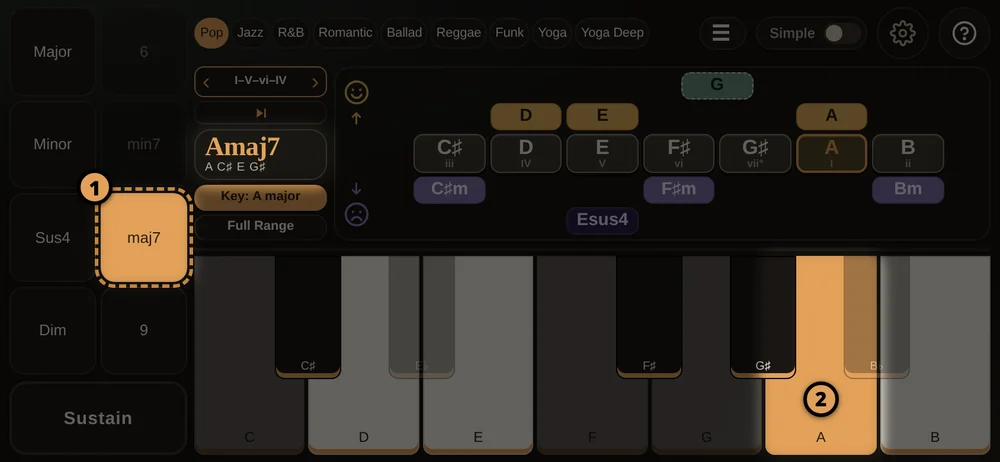
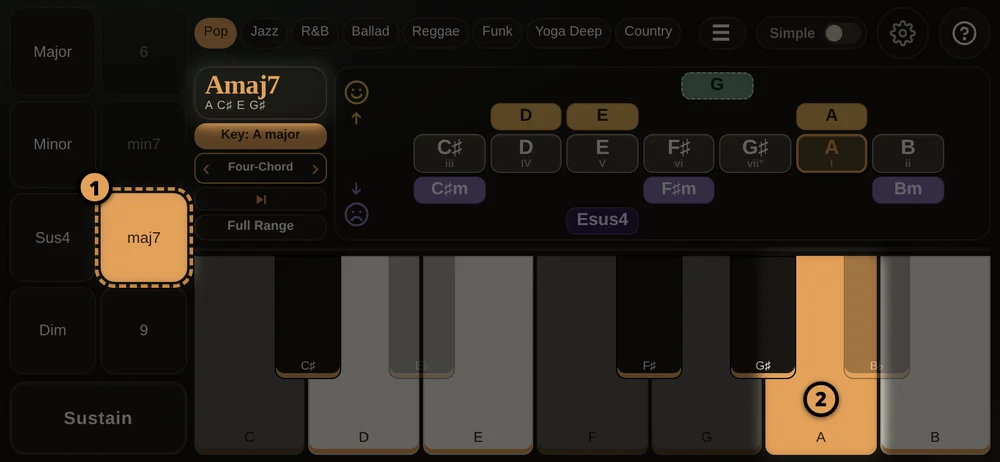
v62: Noff's v61 How to pictures (step 1 marks the song picker as 3), step 1 caption and alt; iPad and desktop full mode use the phone column (Now, Key, ‹ name ›, Next, Full Range; full name with numerals, wide rule at 150 px so iPad portrait gets it too); progression-number badges stay inside the st

Changed region(s): [[0.186, 0.1515, 0.341, 0.4545], [0.186, 0.0303, 0.682, 0.1212]]

diff --git a/index.html b/index.html
@@ -1478,6 +1478,18 @@ html.lay-phone-land:not(.simple) .now-col > #prog, html.lay-phone-port:not(.simp
 html.lay-phone-land:not(.simple) #allKeys, html.lay-phone-port:not(.simple) #allKeys { order: 4; }
 html.lay-phone-land:not(.simple) .key-bar button, html.lay-phone-port:not(.simple) .key-bar button { flex: 0 0 auto; }
 html.lay-phone-land:not(.simple) .now-col { gap: 3px; }
+/* v62: iPad / desktop full mode: the same column. Key and Full Range stack full width; the name
+   (with numerals under it) and a full-width Next sit between them. */
+html.lay-pad-land:not(.simple) .key-bar, html.lay-pad-port:not(.simple) .key-bar { display: contents; }
+html.lay-pad-land:not(.simple) .now-col > .now-card, html.lay-pad-port:not(.simple) .now-col > .now-card { order: 1; }
+html.lay-pad-land:not(.simple) #keyChip, html.lay-pad-port:not(.simple) #keyChip { order: 2; }
+html.lay-pad-land:not(.simple) .now-col > #prog, html.lay-pad-port:not(.simple) .now-col > #prog { order: 3; }
+html.lay-pad-land:not(.simple) #allKeys, html.lay-pad-port:not(.simple) #allKeys { order: 4; }
+html.lay-pad-land:not(.simple) .key-bar button, html.lay-pad-port:not(.simple) .key-bar button { flex: 0 0 auto; height: 40px; min-height: 40px; }
+html.lay-pad-land:not(.simple) .now-col > .prog, html.lay-pad-port:not(.simple) .now-col > .prog { flex-direction: column; gap: 6px; flex: 0 0 auto; width: 100%; max-width: none; margin: 0; --pg-h: 42px; }
+html.lay-pad-land:not(.simple) .now-col > .prog .pg-sel, html.lay-pad-port:not(.simple) .now-col > .prog .pg-sel { width: 100%; flex: 0 0 auto; }
+html.lay-pad-land:not(.simple) .now-col > .prog .pg-btns, html.lay-pad-port:not(.simple) .now-col > .prog .pg-btns { width: 100%; }
+html.lay-pad-land:not(.simple) .now-col > .prog .pg-btn, html.lay-pad-port:not(.simple) .now-col > .prog .pg-btn { flex: 1 1 0; width: auto; height: 34px; }
 /* v61 portrait: the row grows (the keyboard gives up the height) so Now stays at its v59 91 px. */
 html.lay-phone-port:not(.simple) .now-col { gap: 4px; }
 html.lay-phone-port:not(.simple) .now-col > .now-card { flex: 1 0 auto; min-height: 91px; }
@@ -1552,27 +1564,27 @@ html:not(.simple) .ss.tight .ss-chip.sq { padding-left: 0; padding-right: 0; }
     <div class="ht-box">
       <div class="ht-bar"><button type="button" class="ht-x" aria-label="Close">&#10005;</button></div>
       <section class="ht-intro">
-      <img src="images/howto-why.webp?v=61" alt="Touch Chord in Simple mode: Now, key, Sustain and the chord grid" width="1000" height="462" loading="lazy" decoding="async">
+      <img src="images/howto-why.webp?v=62" alt="Touch Chord in Simple mode: Now, key, Sustain and the chord grid" width="1000" height="462" loading="lazy" decoding="async">
       <p class="ht-why">Touch Chord turns one finger into a full chord. No music reading needed.</p>
       <p class="ht-uses">Learn chords &middot; Sing along &middot; Start a song.</p></section>
       <ol class="ht-steps">
       <li><section><h3>1. Play chord suggestion</h3>
-      <img src="images/howto-simple-1-play-suggestion.webp?v=61" alt="Key note and Major/Minor, and a chord chip" width="1000" height="462" loading="lazy" decoding="async">
-      <p class="cap">Swipe the note (1) to pick the key, and tap for <b>Major</b> or <b>Minor</b>. Then tap a chord (2) to play it. &#8249; &#8250; picks a song, and <b>Next</b> plays it one chord at a time.</p></section></li>
+      <img src="images/howto-simple-1-play-suggestion.webp?v=62" alt="Key note and Major/Minor, a chord chip, and the song picker" width="1000" height="462" loading="lazy" decoding="async">
+      <p class="cap">Swipe the note (1) to pick the key, and tap for <b>Major</b> or <b>Minor</b>. Then tap a chord (2) to play it. &#8249; &#8250; (3) picks a song, and <b>Next</b> plays it one chord at a time.</p></section></li>
       <li><section><h3>2. Sustain</h3>
-      <img src="images/howto-simple-4-sustain.webp?v=61" alt="Sustain lit while the chord rings" width="1000" height="462" loading="lazy" decoding="async">
+      <img src="images/howto-simple-4-sustain.webp?v=62" alt="Sustain lit while the chord rings" width="1000" height="462" loading="lazy" decoding="async">
       <p class="cap">Play (1), hold <b>Sustain</b> (2): notes ring and fade. Let go to stop.</p></section></li>
       <li><section><h3>3. Style</h3>
-      <img src="images/howto-simple-5-style.webp?v=61" alt="Style picker" width="1000" height="462" loading="lazy" decoding="async">
+      <img src="images/howto-simple-5-style.webp?v=62" alt="Style picker" width="1000" height="462" loading="lazy" decoding="async">
       <p class="cap">Tap a style (1). It changes the sound and the chords.</p></section></li>
       <li><section><h3>4. Make a chord <span class="ht-pill">Full mode</span></h3>
-      <img src="images/howto-full-2-make-chord.webp?v=61" alt="Hold maj7, tap A, Now reads Amaj7" width="1000" height="462" loading="lazy" decoding="async">
+      <img src="images/howto-full-2-make-chord.webp?v=62" alt="Hold maj7, tap A, Now reads Amaj7" width="1000" height="462" loading="lazy" decoding="async">
       <p class="cap">Hold <b>maj7</b> (1), tap <b>A</b> (2) = <b>Amaj7</b>.</p></section></li>
       <li><section><h3>5. Keyboard <span class="ht-pill">Full mode</span></h3>
-      <img src="images/howto-full-3-keyboard.webp?v=61" alt="Piano keyboard: each key plays a chord" width="1000" height="462" loading="lazy" decoding="async">
+      <img src="images/howto-full-3-keyboard.webp?v=62" alt="Piano keyboard: each key plays a chord" width="1000" height="462" loading="lazy" decoding="async">
       <p class="cap">Tap a key (1) to play its chord.</p></section></li>
       <li><section><h3>6. Full Range <span class="ht-pill">Full mode</span></h3>
-      <img src="images/howto-full-4-fullrange.webp?v=61" alt="Before: gray keys. After Full Range: all keys on" width="1200" height="300" loading="lazy" decoding="async">
+      <img src="images/howto-full-4-fullrange.webp?v=62" alt="Before: gray keys. After Full Range: all keys on" width="1200" height="300" loading="lazy" decoding="async">
       <p class="cap">Gray keys are outside your key. Tap <b>Full Range</b> (1) to play them all.</p></section></li>
       </ol>
       <p class="ht-end">Sound and FX live in the gear's <b>Advanced</b> settings.</p>
@@ -1736,7 +1748,7 @@ html:not(.simple) .ss.tight .ss-chip.sq { padding-left: 0; padding-right: 0; }
 <script>
 "use strict";
 // Bump every build. Shown in Config so a cached copy reports its real version.
-var APP_VERSION = 61;
+var APP_VERSION = 62;
 document.addEventListener("DOMContentLoaded", function () {
   var v = document.getElementById("appVersion");
   if (v) v.textContent = "Version " + APP_VERSION;
@@ -4948,8 +4960,8 @@ function accSym(s) {
     if (!el || !prog.badges.length) return;
     var sr = el.getBoundingClientRect();
     var pc = el.parentNode.getBoundingClientRect();
-    // v58: inside the strip horizontally (and the panel vertically).
-    var pr = { left: Math.max(pc.left, sr.left), right: Math.min(pc.right, sr.right), top: pc.top, bottom: pc.bottom };
+    // v62: inside the strip on every side, and at least 2px clear of the card's border.
+    var pr = { left: Math.max(pc.left + 2, sr.left), right: Math.min(pc.right - 2, sr.right), top: Math.max(pc.top + 2, sr.top), bottom: Math.min(pc.bottom - 2, sr.bottom) };
     var texts = [];
     Array.prototype.forEach.call(el.querySelectorAll(".ss-chip .r, .ss-chip .q, .ss-chip .rn, .ss-note .nn, .ss-note small"), function (n) {
       if (!n.textContent || getComputedStyle(n).display === "none") return;
@@ -4983,23 +4995,32 @@ function accSym(s) {
       cands.push([L, t.top + 1], [R, t.top + 1], [t.left - bw * 0.3, t.top - bh * 0.38], [t.right - bw * 0.7, t.top - bh * 0.38]);
       // v58: corners just touching, when tight (portrait phones).
       cands.push([t.left - bw, t.top - bh + 1], [t.right, t.top - bh + 1], [t.left - bw, t.bottom - 1], [t.right, t.bottom - 1], [t.left - bw, ym], [t.right, ym]);
+      // v62: each spot also clamped inside the strip, so a spot that would stick out flips inward.
+      var nc = cands.length;
+      for (var ci0 = 0; ci0 < nc; ci0++) {
+        var cx = Math.min(Math.max(cands[ci0][0], pr.left), pr.right - bw), cy = Math.min(Math.max(cands[ci0][1], pr.top), pr.bottom - bh);
+        if (cx !== cands[ci0][0] || cy !== cands[ci0][1]) cands.push([cx, cy]);
+      }
       var best = null;
       cands.forEach(function (c, ci) {
         var r = { left: c[0], top: c[1], right: c[0] + bw, bottom: c[1] + bh };
         var sc = 0;
         texts.forEach(function (q) { sc += ov(r, q) * 100; });
         placed.forEach(function (q) { sc += ov(r, q) * 50; });
-        // Inside the panel; poking up to 60% of its height over the top edge (like a notification badge) only
-        // when nothing inside is free.
-        var up = Math.max(0, pr.top - r.top);
-        var allow = Math.round(bh * 0.6);
-        var out = Math.max(0, pr.left - r.left) + Math.max(0, r.right - pr.right) + Math.max(0, up - allow) + Math.max(0, r.bottom - pr.bottom);
-        sc += out * 2000 + Math.min(up, allow) * 5 + ci * 0.01;
+        // v62: never outside the strip (no poking over the top edge any more).
+        var out = Math.max(0, pr.left - r.left) + Math.max(0, r.right - pr.right) + Math.max(0, pr.top - r.top) + Math.max(0, r.bottom - pr.bottom);
+        sc += out * 1e6 + ci * 0.01;
         if (!best || sc < best.sc) best = { sc: sc, r: r };
       });
+      // Last resort: clamp (only if every spot was outside, e.g. a strip smaller than the badge).
+      var cl = Math.min(Math.max(best.r.left, pr.left), pr.right - bw), ct = Math.min(Math.max(best.r.top, pr.top), pr.bottom - bh);
+      best.r = { left: cl, top: ct, right: cl + bw, bottom: ct + bh };
       placed.push(best.r);
-      b.el.style.left = Math.round(best.r.left - sr.left) + "px";
-      b.el.style.top = Math.round(best.r.top - sr.top) + "px";
+      var px = Math.round(best.r.left - sr.left), py = Math.round(best.r.top - sr.top);
+      px = Math.max(Math.ceil(pr.left - sr.left), Math.min(px, Math.floor(pr.right - bw - sr.left)));
+      py = Math.max(Math.ceil(pr.top - sr.top), Math.min(py, Math.floor(pr.bottom - bh - sr.top)));
+      b.el.style.left = px + "px";
+      b.el.style.top = py + "px";
     });
   }
   function progRedecorate() {
@@ -5148,15 +5169,11 @@ function accSym(s) {
       where = "kid";
       var kid = document.getElementById("kidKey");
       if (el.previousElementSibling !== kid || el.parentNode !== nowCol) nowCol.insertBefore(el, kid.nextSibling);
-    } else if (de.classList.contains("lay-phone-land") || de.classList.contains("lay-phone-port")) {
-      // v60/v61: Now, Key, ‹ name ›, Next, Full Range (CSS order; the key bar's two buttons join the
-      // column). v61: phone portrait too; its row grows so Now keeps its v59 height.
+    } else {
+      // v60-v62: every full-mode layout: Now, Key, ‹ name ›, Next, Full Range (CSS order; the key
+      // bar's two buttons join the column). v62: iPad and desktop too (no top-bar picker any more).
       where = "now";
       if (el.parentNode !== nowCol || el.previousElementSibling !== nowCol.querySelector(".key-bar")) nowCol.insertBefore(el, nowCol.querySelector(".key-bar").nextSibling);
-    } else {
-      where = "top";
-      var brand = document.querySelector(".topbar .brand");
-      if (el.previousElementSibling !== brand) brand.parentNode.insertBefore(el, brand.nextSibling);
     }
     el.dataset.at = where;
     de.classList.toggle("prog-top", where === "top");
@@ -5180,6 +5197,17 @@ function accSym(s) {
   var PROG_PLAY_SVG = "<svg viewBox=\"0 0 24 24\" aria-hidden=\"true\"><path d=\"M7 4.5v15l12.5-7.5z\" fill=\"currentColor\"/></svg>";
   var PROG_STOP_SVG = "<svg viewBox=\"0 0 24 24\" aria-hidden=\"true\"><rect x=\"6\" y=\"6\" width=\"12\" height=\"12\" rx=\"1.5\" fill=\"currentColor\"/></svg>";
   // Name fits its box: shrink the font (not below 9 px full / 11 px Simple), up to 2 lines.
+  // True when a word of the label would have to break (a word wider than the name box).
+  function splitWord() {
+    var el = document.getElementById("prog"), box = el.querySelector(".pg-txt"), t = el.querySelector(".pg-t");
+    var probe = document.createElement("span");
+    probe.style.cssText = "position:absolute;visibility:hidden;white-space:nowrap;font:inherit;letter-spacing:inherit";
+    t.appendChild(probe);
+    var words = (prog.label && prog.label.feel || "").split(" "), bad = false;
+    for (var i = 0; i < words.length && !bad; i++) { probe.textContent = words[i]; if (probe.offsetWidth > box.clientWidth + 0.5) bad = true; }
+    t.removeChild(probe);
+    return bad;
+  }
   function fitProgName() {
     var el = document.getElementById("prog");
     if (!el || !el.offsetParent) return;
@@ -5190,7 +5218,7 @@ function accSym(s) {
     // v60: a wide name area (iPad, desktop) shows "Jazz Turnaround" with small numerals under it;
     // a narrow one (phones) shows the feel only, on one line when it fits. Width-based, no UA checks.
     var L = prog.label || { name: "", feel: "", num: "" };
-    var wide = box.clientWidth >= 180;
+    var wide = box.clientWidth >= 150;   // v62: 150 (iPad portrait / 1024 rails are ~151-176; phones <= 144)
     el.classList.toggle("pg-wide", wide);
     if (wide) {
       t.innerHTML = "";
@@ -5202,6 +5230,24 @@ function accSym(s) {
       t.textContent = L.feel;
       t.style.whiteSpace = "nowrap";
       var fs1 = parseFloat(getComputedStyle(t).fontSize) || 14;
+      // v62: full mode on phones: the feel label as large as the name box allows, up to 13 px on one
+      // line; two-word labels may wrap onto two lines at up to 12 px. Never smaller than before.
+      if (!state.simple && fs1 < 13) {
+        var base = fs1, bw0 = box.clientWidth + 0.5, bh0 = box.clientHeight + 0.5;
+        // Two words: one line down to 11 px, then two lines (larger) before a smaller single line.
+        var multi = L.feel.indexOf(" ") >= 0, low = multi ? Math.max(base, 11) - 0.01 : base;
+        for (var g = 13; g > low; g -= 0.5) { t.style.fontSize = g + "px"; if (t.scrollWidth <= bw0 && t.offsetHeight <= bh0) return; }
+        if (L.feel.indexOf(" ") >= 0) {
+          t.style.whiteSpace = "";
+          for (g = 12; g > base; g -= 0.5) {
+            t.style.fontSize = g + "px";
+            if (t.scrollWidth <= bw0 && t.offsetHeight <= bh0 && t.offsetHeight <= g * 1.12 * 2 + 1 && !splitWord()) return;
+          }
+          t.style.whiteSpace = "nowrap";
+          for (g = Math.max(base, 11) - 0.5; g > base; g -= 0.5) { t.style.fontSize = g + "px"; if (t.scrollWidth <= bw0) return; }
+        }
+        t.style.fontSize = "";
+      }
       while (fs1 > 9 && t.scrollWidth > box.clientWidth + 0.5) { fs1 = Math.max(9, fs1 - 0.5); t.style.fontSize = fs1 + "px"; }
       if (t.scrollWidth <= box.clientWidth + 0.5) return;
       // One word (e.g. "Turnaround") must not break mid-word: tighten, then an 8.5 px floor.
